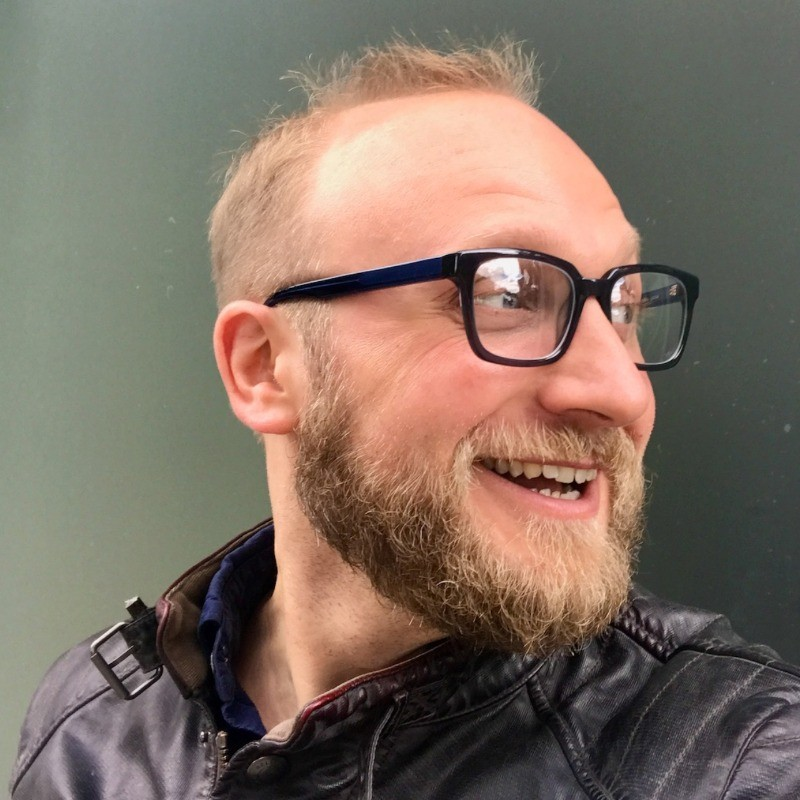
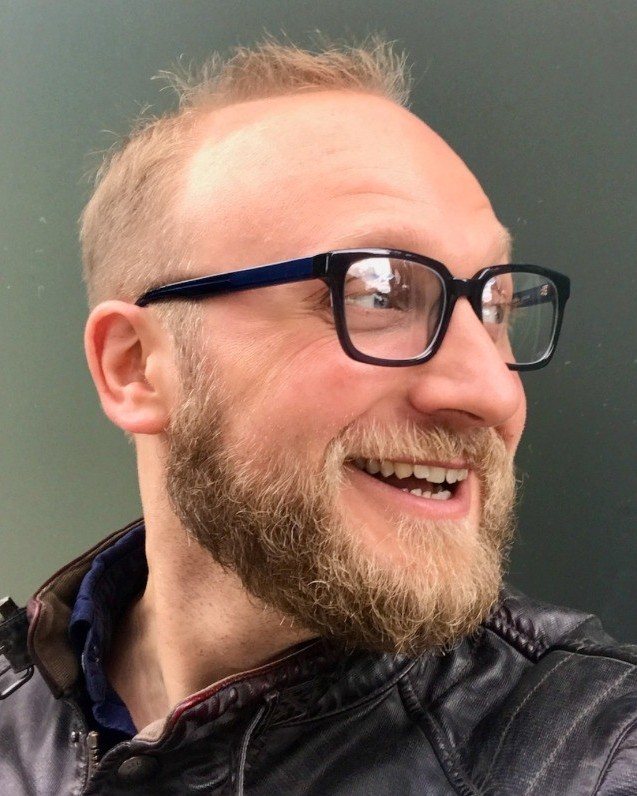
Added Jing AI, adjusted picture format, new title, changes page styling
As stated in the above, I've added a lot of styling changes to help format the page better, including converting the top part into an image so it can scale well on mobile etc. I have added a new person and cropped the images so that their heads are towards the centre, which looks better on most formats. Finally, I've added some SEO content to help on that side of things etc...

diff --git a/src/components/ContactUsFormXT24.tsx b/src/components/ContactUsFormXT24.tsx
@@ -46,7 +46,7 @@ export default function ContactUsFormXT24(props) {
       <br />
       <br />
       <b class='bold'>
-        Please note: <br /> this is not a ticket confirmation
+        Please note: <br /> This is not a ticket confirmation
       </b>
     </div>
   )
